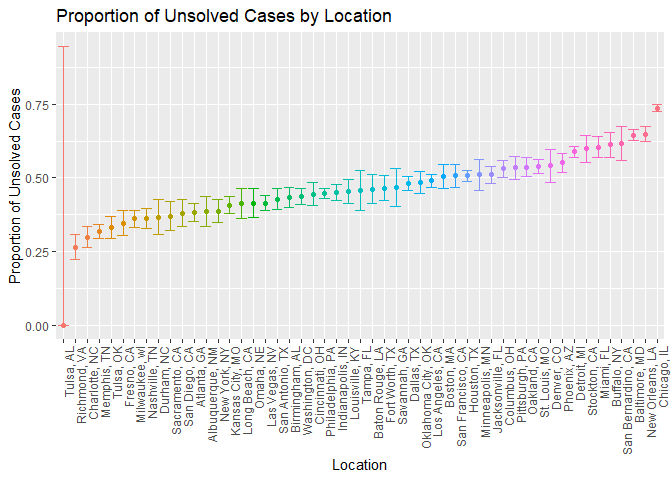
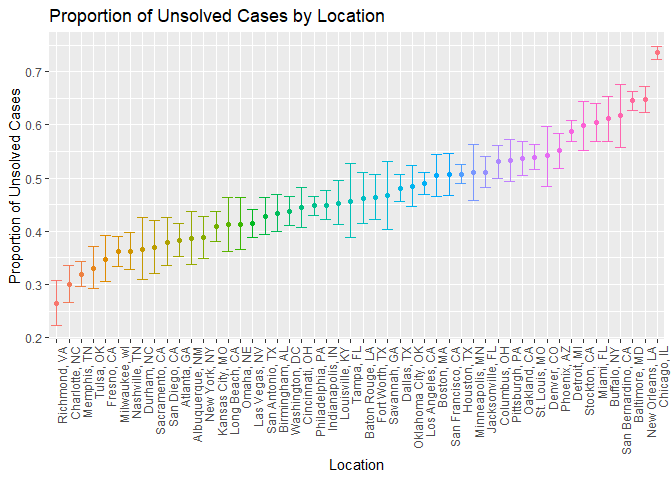
problem 3

diff --git a/p8105_hw5_sm5134.md b/p8105_hw5_sm5134.md
@@ -59,13 +59,19 @@ Import and clean data
 ``` r
 homicide = read_csv("./hw5_data/homicide-data.csv") %>% 
   janitor::clean_names() %>% 
+  mutate(state = case_when(city == "Tulsa" ~ "OK", TRUE ~ as.character(state))) %>% 
   mutate(city_state = str_c(city, state, sep = ", "))
 ```
 
 This dataset describes homicides that took place in 50 cities across the
 U.S. It contains 52,179 observations across 13 variables, including ID;
 reported date; first and last name of victim; victim race, age, and sex,
-location (city, state, latitude, and longitude), and disposition.
+location (city, state, latitude, and longitude), and disposition. The
+dataset originally contained 51 observations. Upon closer inspection, I
+noticed one homicide was supposedly located in Tulsa, AL. I confirmed
+that Tulsa, AL does not exist through an internet search, and then
+presumed this was a typo and that this observation was meant to recorded
+as Tulsa, OK. I corrected this in the code above.
 
 Summarizing total homicides and total unsolved cases by city
 
@@ -73,7 +79,7 @@ Summarizing total homicides and total unsolved cases by city
 homicide_summ = homicide %>% 
   group_by(city_state) %>% 
   summarise(homicide_total = n(), 
-            unsolved = sum(!(disposition == "Closed by arrest")))
+            unsolved = sum(!(disposition == "Closed by arrest"))) 
 ```
 
 ``` r
@@ -98,14 +104,7 @@ all_cities = homicide_summ %>%
                                  CI_Lower = .[["conf.int"]][[1]],
                                  CI_Upper = .[["conf.int"]][[2]])})) %>% 
   unnest()
-```
 
-    ## Warning in prop.test(.x, n = .y): Chi-squared approximation may be incorrect
-
-    ## Warning: `cols` is now required when using unnest().
-    ## Please use `cols = c(newcol)`
-
-``` r
 # Plot estimates and CIs
 all_cities %>% 
   mutate(city_state = fct_reorder(city_state, estimate)) %>% 
@@ -120,5 +119,60 @@ all_cities %>%
 ```
 
 ![](p8105_hw5_sm5134_files/figure-gfm/unnamed-chunk-6-1.png)<!-- -->
+This plot shows the estimated proportion of unsolved cases by city.
+Richmond, VA had the lowest proportion of unsolved cases and Chicago, IL
+had the highest.
 
 ## Problem 3
+
+``` r
+set.seed(1)
+
+#creating function
+sim_t_test = function(mu) {
+  sample = rnorm(30 , mean = mu, sd = 5)
+ttest = t.test(sample) %>% 
+  broom::tidy()
+}
+
+#testing function
+sim_t_test(mu = 0) %>% view()
+  
+#generating 5000 iterations when mu = 0
+sim_results_df0 = expand_grid(
+  mu = 0,
+  iter = 1:5000
+) %>% 
+  mutate(
+    test_df = map(mu, sim_t_test)
+  ) %>% 
+  unnest(test_df)
+  
+#generating 5000 datasets when mu = 1-6
+sim_results_df = expand_grid(
+  mu = c(1:6),
+  iter = 1:5000
+) %>% 
+  mutate(
+    test_df = map(mu, sim_t_test)
+  ) %>% 
+  unnest(test_df)
+
+sim_results_df = sim_results_df%>% 
+  mutate(reject_h0 = ifelse(p.value < 0.05, TRUE, FALSE))
+
+power_plot = sim_results_df %>% 
+  group_by(mu) %>% 
+  mutate(power = sum(reject_h0)/5000) %>% 
+  ggplot(aes(x = mu, y = power)) +
+  geom_point() + 
+  geom_line() +
+  labs(
+    x = "True Value of Mu ",
+    y = "Power",
+    title = "Power of t-test vs True Value of Mu")
+
+power_plot
+```
+
+![](p8105_hw5_sm5134_files/figure-gfm/unnamed-chunk-7-1.png)<!-- -->
